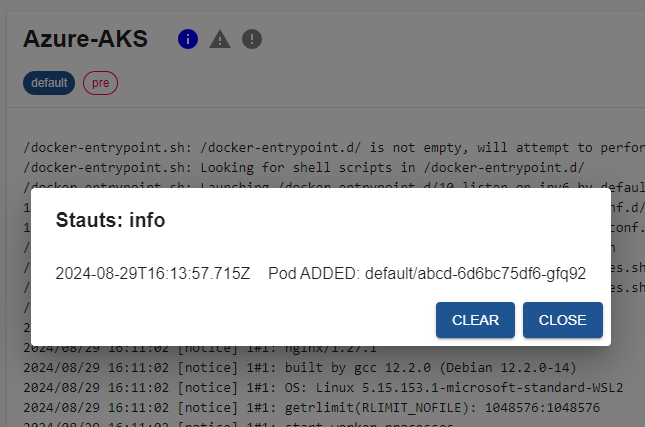
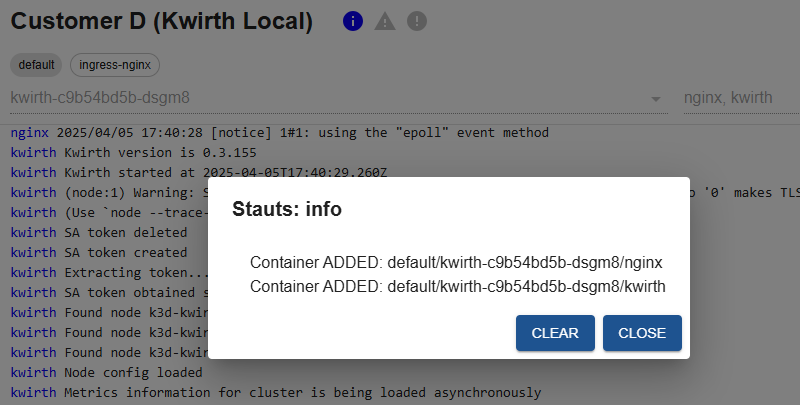
update docs update svg's

diff --git a/src/components/EntityKwirthLogContent/EntityKwirthLogContent.tsx b/src/components/EntityKwirthLogContent/EntityKwirthLogContent.tsx
@@ -359,9 +359,6 @@ export const EntityKwirthLogContent = () => {
     }
     
     const onSelectObject = (namespaces:string[], podNames:string[], containerNames:string[]) => {
-        console.log(namespaces)
-        console.log(podNames)
-        console.log(containerNames)
         setSelectedNamespaces(namespaces)
         setSelectedPodNames(podNames)
         setSelectedContainerNames(containerNames)

diff --git a/README.md b/README.md
@@ -119,7 +119,11 @@ When you access the tab, if you have not yet tagged your entities you would see 
 
 ![notfound](https://raw.githubusercontent.com/jfvilas/plugin-kwirth-log/master/images/kwirthlog-notfound.png)
 
-Once you tagged your entities and your Kubernetes objects, you should see something similar to this:
+But, if the component is found on some of the clusters configured in Backstage, your screen will look like following one, showing some cluster that can be selected and some others that can't.
+
+![notfound-some](https://raw.githubusercontent.com/jfvilas/plugin-kwirth-log/master/images/kwirthlog-notfound-on-cluster.png)
+
+Once you tagged your entities and your Kubernetes objects correctly, you should see something similar to this:
 
 ![available](https://raw.githubusercontent.com/jfvilas/plugin-kwirth-log/master/images/kwirthlog-available.png)
 
